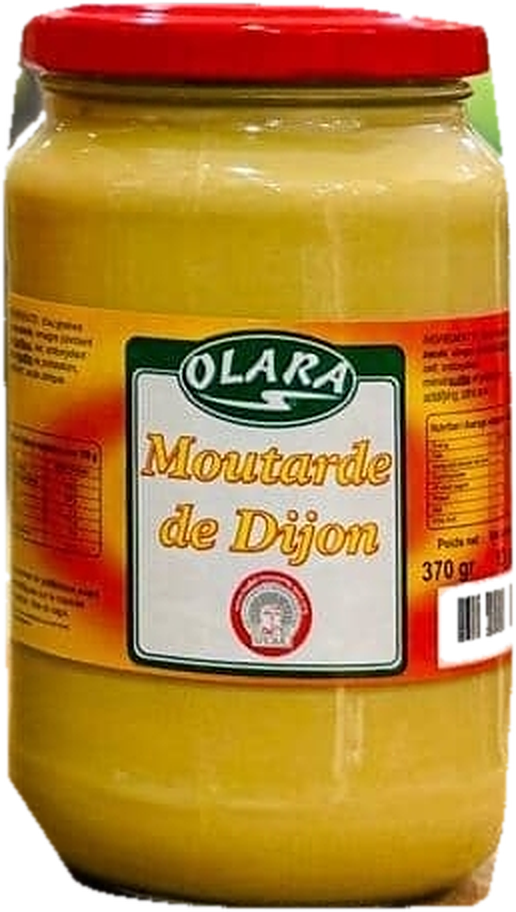
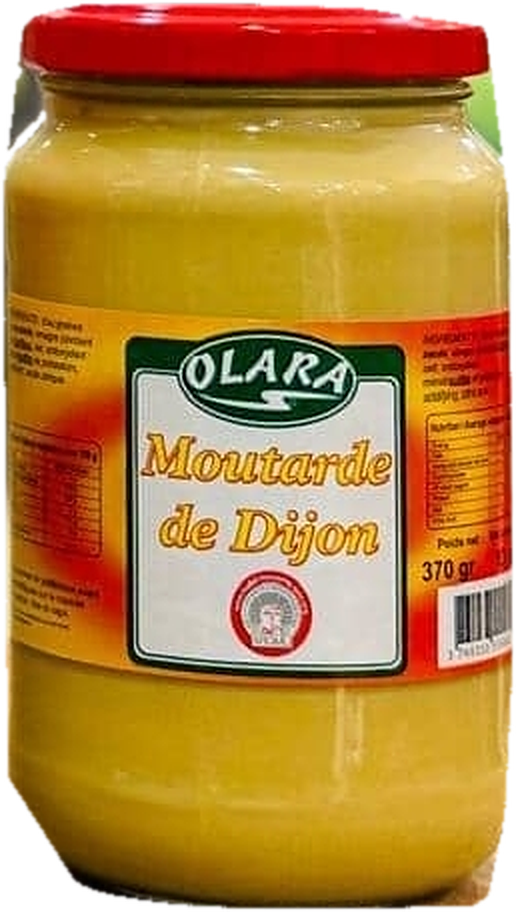
OLARA : ne plus effacer le code-barres du pot de 370 g au détourage
Le nettoyage du fond autour du col en verre est limité au haut du pot ;
il ne touche plus jamais l'étiquette.

Claude-Session: https://claude.ai/code/session_01NfcwbGH7yricAqVr6SkKBV

Changed region(s): [[0.8372, 0.614, 1.0, 0.7368]]

diff --git a/olara-moutarde/scripts/detourer_pots.py b/olara-moutarde/scripts/detourer_pots.py
@@ -41,6 +41,9 @@ for name, (x0, x1, yt, yb, bl, br) in JARS.items():
     lab2, n2 = ndimage.label(bgl)
     touch = set(np.unique(lab2[ring & bgl])) - {0}
     cut = np.isin(lab2, list(touch))
+    # uniquement dans la zone du col et de l'épaule (haut du pot), jamais sur l'étiquette
+    neck = np.zeros_like(cut); neck[: yt + int((yb - yt) * 0.22), :] = True
+    cut &= neck
     keep = inside & ~ndimage.binary_dilation(cut, iterations=1)
     mk = Image.fromarray((keep * 255).astype("uint8")).filter(ImageFilter.GaussianBlur(0.8))
     out = SRC.copy(); out.putalpha(mk); box = out.getbbox(); out = out.crop(box)
